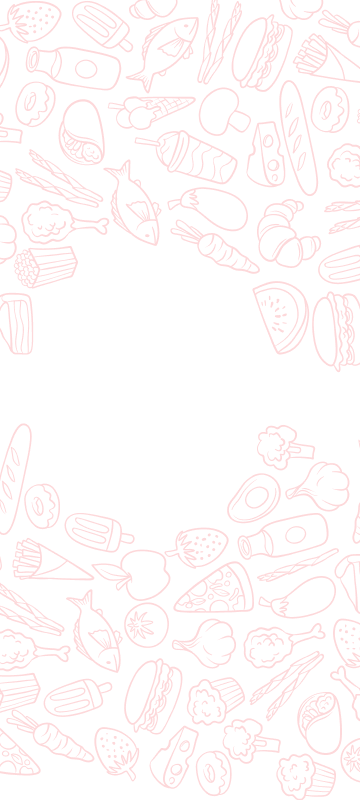
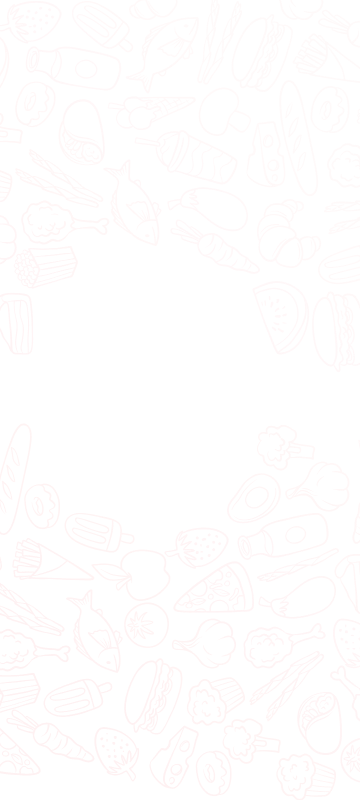
create and implement HeadFirstCard design

diff --git a/client_end_user/shared/src/commonMain/kotlin/presentation/login/LoginScreen.kt b/client_end_user/shared/src/commonMain/kotlin/presentation/login/LoginScreen.kt
@@ -1,17 +1,23 @@
 package presentation.login
 
-import androidx.compose.foundation.layout.Arrangement
-import androidx.compose.foundation.layout.Column
+import androidx.compose.foundation.Image
+import androidx.compose.foundation.background
+import androidx.compose.foundation.layout.Box
 import androidx.compose.foundation.layout.fillMaxSize
 import androidx.compose.material3.Text
 import androidx.compose.runtime.Composable
 import androidx.compose.ui.Alignment
 import androidx.compose.ui.Modifier
-import androidx.compose.ui.text.style.TextAlign
+import androidx.compose.ui.layout.ContentScale
 import cafe.adriel.voyager.core.model.rememberScreenModel
 import cafe.adriel.voyager.navigator.Navigator
 import com.beepbeep.designSystem.ui.theme.Theme
+import com.seiko.imageloader.option.Scale
+import org.jetbrains.compose.resources.ExperimentalResourceApi
+import org.jetbrains.compose.resources.painterResource
 import presentation.base.BaseScreen
+import presentation.composable.HeadFirstCard
+import resources.Resources
 
 class LoginScreen :
     BaseScreen<LoginScreenModel, LoginScreenUIState, LoginScreenUIEffect, LoginScreenInteractionListener>() {
@@ -29,19 +35,25 @@ class LoginScreen :
 
     }
 
+    @OptIn(ExperimentalResourceApi::class)
     @Composable
     override fun onRender(state: LoginScreenUIState, listener: LoginScreenInteractionListener) {
-
-        Column(
-            modifier = Modifier.fillMaxSize(),
-            horizontalAlignment = Alignment.CenterHorizontally,
-            verticalArrangement = Arrangement.Center
+        Box(
+            modifier = Modifier.fillMaxSize().background(Theme.colors.background),
+            contentAlignment = Alignment.Center
         ) {
-            Text(
-                "Hello Login Screen",
-                style = Theme.typography.titleLarge,
-                textAlign = TextAlign.Center
+            Image(
+                modifier = Modifier.fillMaxSize(),
+                painter = painterResource(Resources.images.backgroundPattern),
+                contentDescription = Resources.strings.backgroundDescription,
+                contentScale = ContentScale.Crop
             )
+            HeadFirstCard(
+                textHeader = Resources.strings.loginWelcomeMessage,
+                textSubHeader = Resources.strings.loginSubWelcomeMessage
+            ) {
+
+            }
         }
     }
 }

diff --git a/client_end_user/shared/src/commonMain/kotlin/presentation/composable/HeadFirstCard.kt b/client_end_user/shared/src/commonMain/kotlin/presentation/composable/HeadFirstCard.kt
@@ -1,0 +1,69 @@
+package presentation.composable
+
+import androidx.compose.foundation.background
+import androidx.compose.foundation.layout.Arrangement
+import androidx.compose.foundation.layout.Column
+import androidx.compose.foundation.layout.fillMaxWidth
+import androidx.compose.foundation.layout.padding
+import androidx.compose.foundation.layout.size
+import androidx.compose.foundation.shape.RoundedCornerShape
+import androidx.compose.material3.Icon
+import androidx.compose.material3.Text
+import androidx.compose.runtime.Composable
+import androidx.compose.ui.Modifier
+import androidx.compose.ui.draw.clip
+import androidx.compose.ui.unit.dp
+import com.beepbeep.designSystem.ui.theme.Theme
+import org.jetbrains.compose.resources.ExperimentalResourceApi
+import org.jetbrains.compose.resources.painterResource
+import resources.Resources
+
+@Composable
+fun HeadFirstCard(
+    textHeader: String,
+    textSubHeader: String,
+    logo: String = Resources.images.bpLogo,
+    modifier: Modifier = Modifier,
+    content: @Composable () -> Unit
+) {
+    Column(
+        modifier = modifier.fillMaxWidth().padding(16.dp)
+            .clip(shape = RoundedCornerShape(Theme.radius.medium))
+            .background(Theme.colors.surface)
+            .padding(16.dp)
+    ) {
+        CardHeader(textHeader = textHeader, textSubHeader = textSubHeader, logo = logo)
+        content()
+    }
+}
+
+@OptIn(ExperimentalResourceApi::class)
+@Composable
+private fun CardHeader(
+    textHeader: String,
+    textSubHeader: String,
+    logo: String,
+    modifier: Modifier = Modifier,
+) {
+    Column(modifier = modifier, verticalArrangement = Arrangement.spacedBy(32.dp)) {
+        Icon(
+            modifier = Modifier.size(width = 70.dp, height = 32.dp),
+            painter = painterResource(logo),
+            contentDescription = logo,
+            tint = Theme.colors.primary
+        )
+        Column(verticalArrangement = Arrangement.spacedBy(4.dp)) {
+            Text(
+                text = textHeader,
+                style = Theme.typography.titleLarge,
+                color = Theme.colors.contentPrimary
+            )
+            Text(
+                text = textSubHeader,
+                style = Theme.typography.body,
+                color = Theme.colors.contentTertiary
+            )
+        }
+
+    }
+}

diff --git a/client_end_user/shared/src/commonMain/kotlin/resources/DrawableResources.kt b/client_end_user/shared/src/commonMain/kotlin/resources/DrawableResources.kt
@@ -3,10 +3,8 @@ package resources
 data class DrawableResources(
     val bpIcon: String = "ic_beep_beep_icon.xml",
     val bpLogo: String = "ic_beep_beep_logo.xml",
-    val filledStar: String = "ic_filled_star_light.xml",
-    val backgroundPattern: String = "background_pattern.png"
+    val backgroundPattern: String = "background_pattern.png",
 )
 
 val BpDrawableDarkResources = DrawableResources(
-    filledStar = "ic_filled_star_dark.xml",
 )

diff --git a/client_end_user/shared/src/commonMain/kotlin/resources/StringResources.kt b/client_end_user/shared/src/commonMain/kotlin/resources/StringResources.kt
@@ -2,4 +2,7 @@ package resources
 
 data class StringResources(
     val beepBeep: String = "Beep Beep",
+    val backgroundDescription: String = "background image",
+    val loginWelcomeMessage: String = "Welcome To Beep Beep App",
+    val loginSubWelcomeMessage: String = "Login to access all the features"
 )
